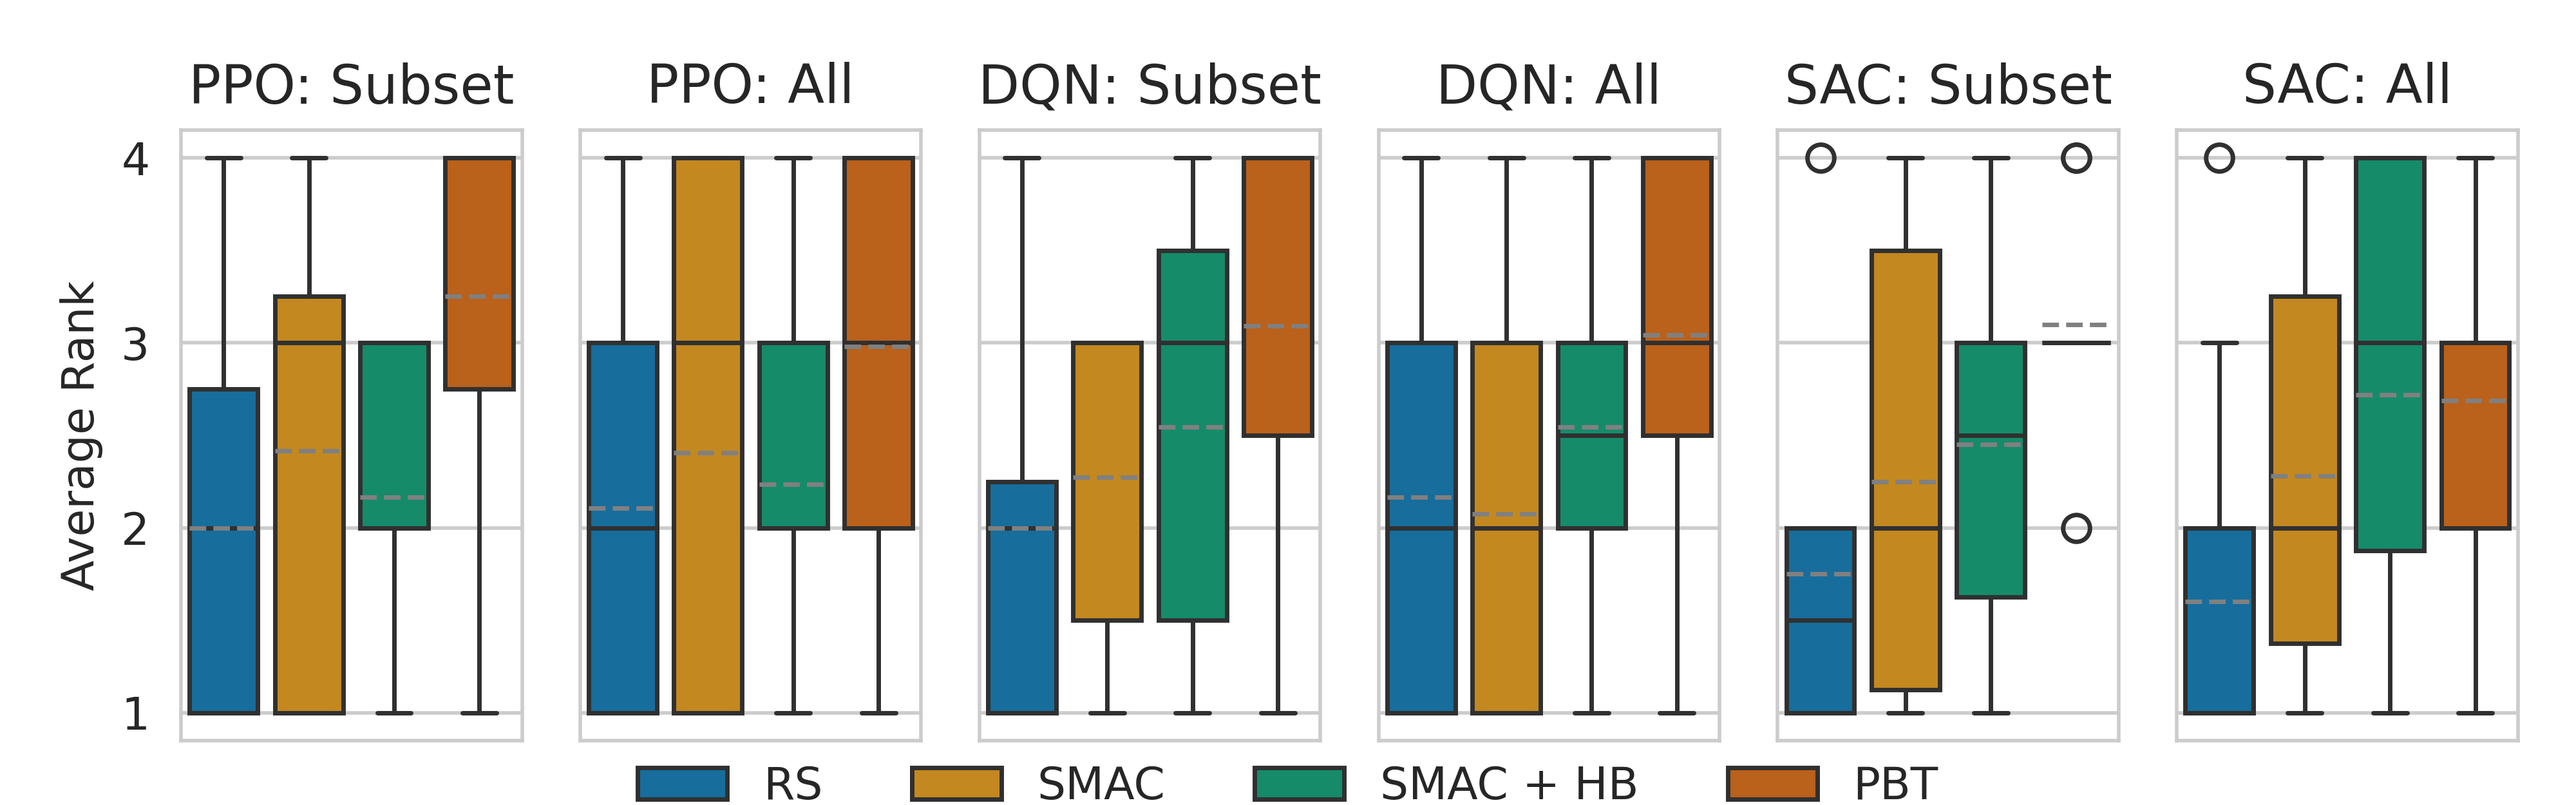
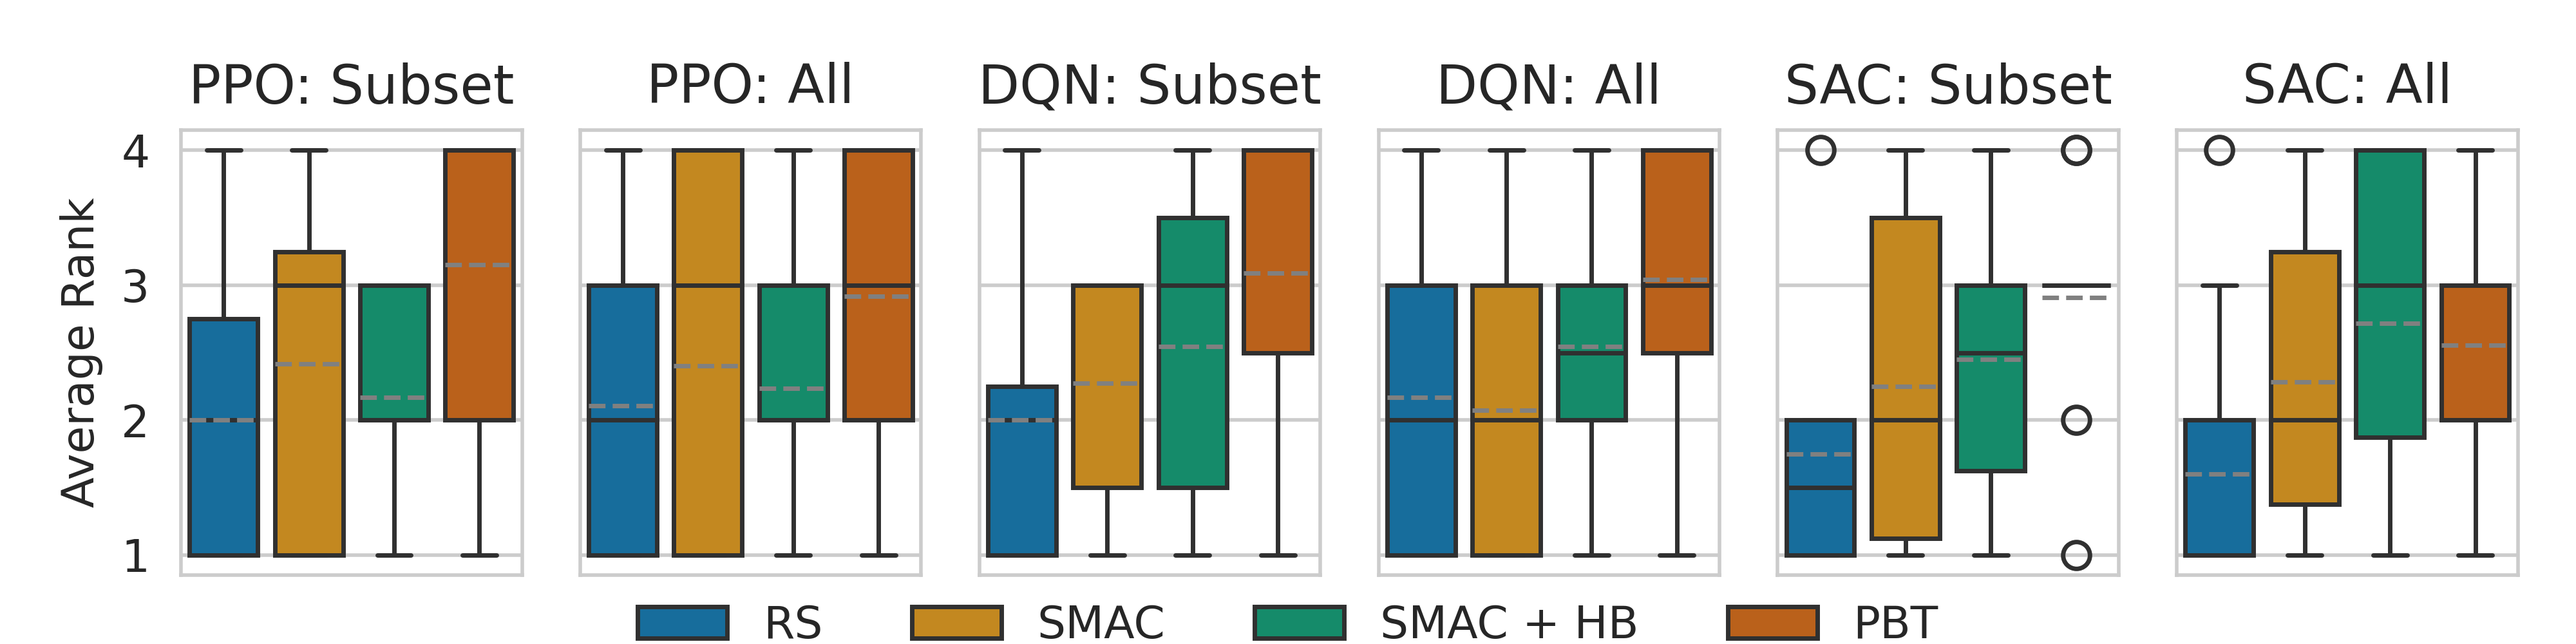
changed size of subset validation plots

diff --git a/subset_validation/subset_validation.py b/subset_validation/subset_validation.py
@@ -252,7 +252,7 @@ def plot_subset_vs_overall(overall_data, subset_data, method: str):
 
 
 def plot_subset_vs_overall_combined(method: str):
-    fig, axes = plt.subplots(1, 6, figsize=(8, 2.5), sharey=True)
+    fig, axes = plt.subplots(1, 6, figsize=(8, 2), sharey=True)
 
     hue_order = ["RS", "SMAC", "SMAC + HB", "PBT"]
     
@@ -309,7 +309,7 @@ def plot_subset_vs_overall_combined(method: str):
     handles, labels = axes[0].get_legend_handles_labels()   
     fig.subplots_adjust(bottom=0.305, wspace=0.166)
 
-    fig.legend(loc='upper center', bbox_to_anchor=(0.5, 0.1), ncol=4, fancybox=False, shadow=False, frameon=False)
+    fig.legend(loc='upper center', bbox_to_anchor=(0.5, 0.125), ncol=4, fancybox=False, shadow=False, frameon=False)
 
     plt.tight_layout(pad=1.3)
     plt.savefig(os.path.join(SUBSET_PLOTS, f"{method}_comparison_combined.png"), dpi=500)
